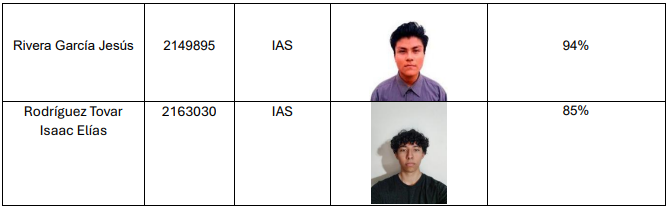
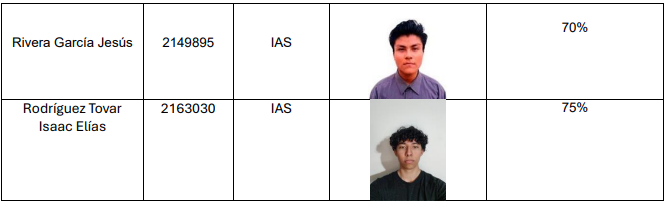
porcentajes de participación actualizados

diff --git a/src/app/index.tsx b/src/app/index.tsx
@@ -160,7 +160,7 @@ headerContainer: {
     marginBottom: -25, // Acerca la segunda tabla
   },
   tablaPequena: {
-    width: '98%',
+    width: '99%',
     height: 150, 
     marginBottom: 40,
   },
